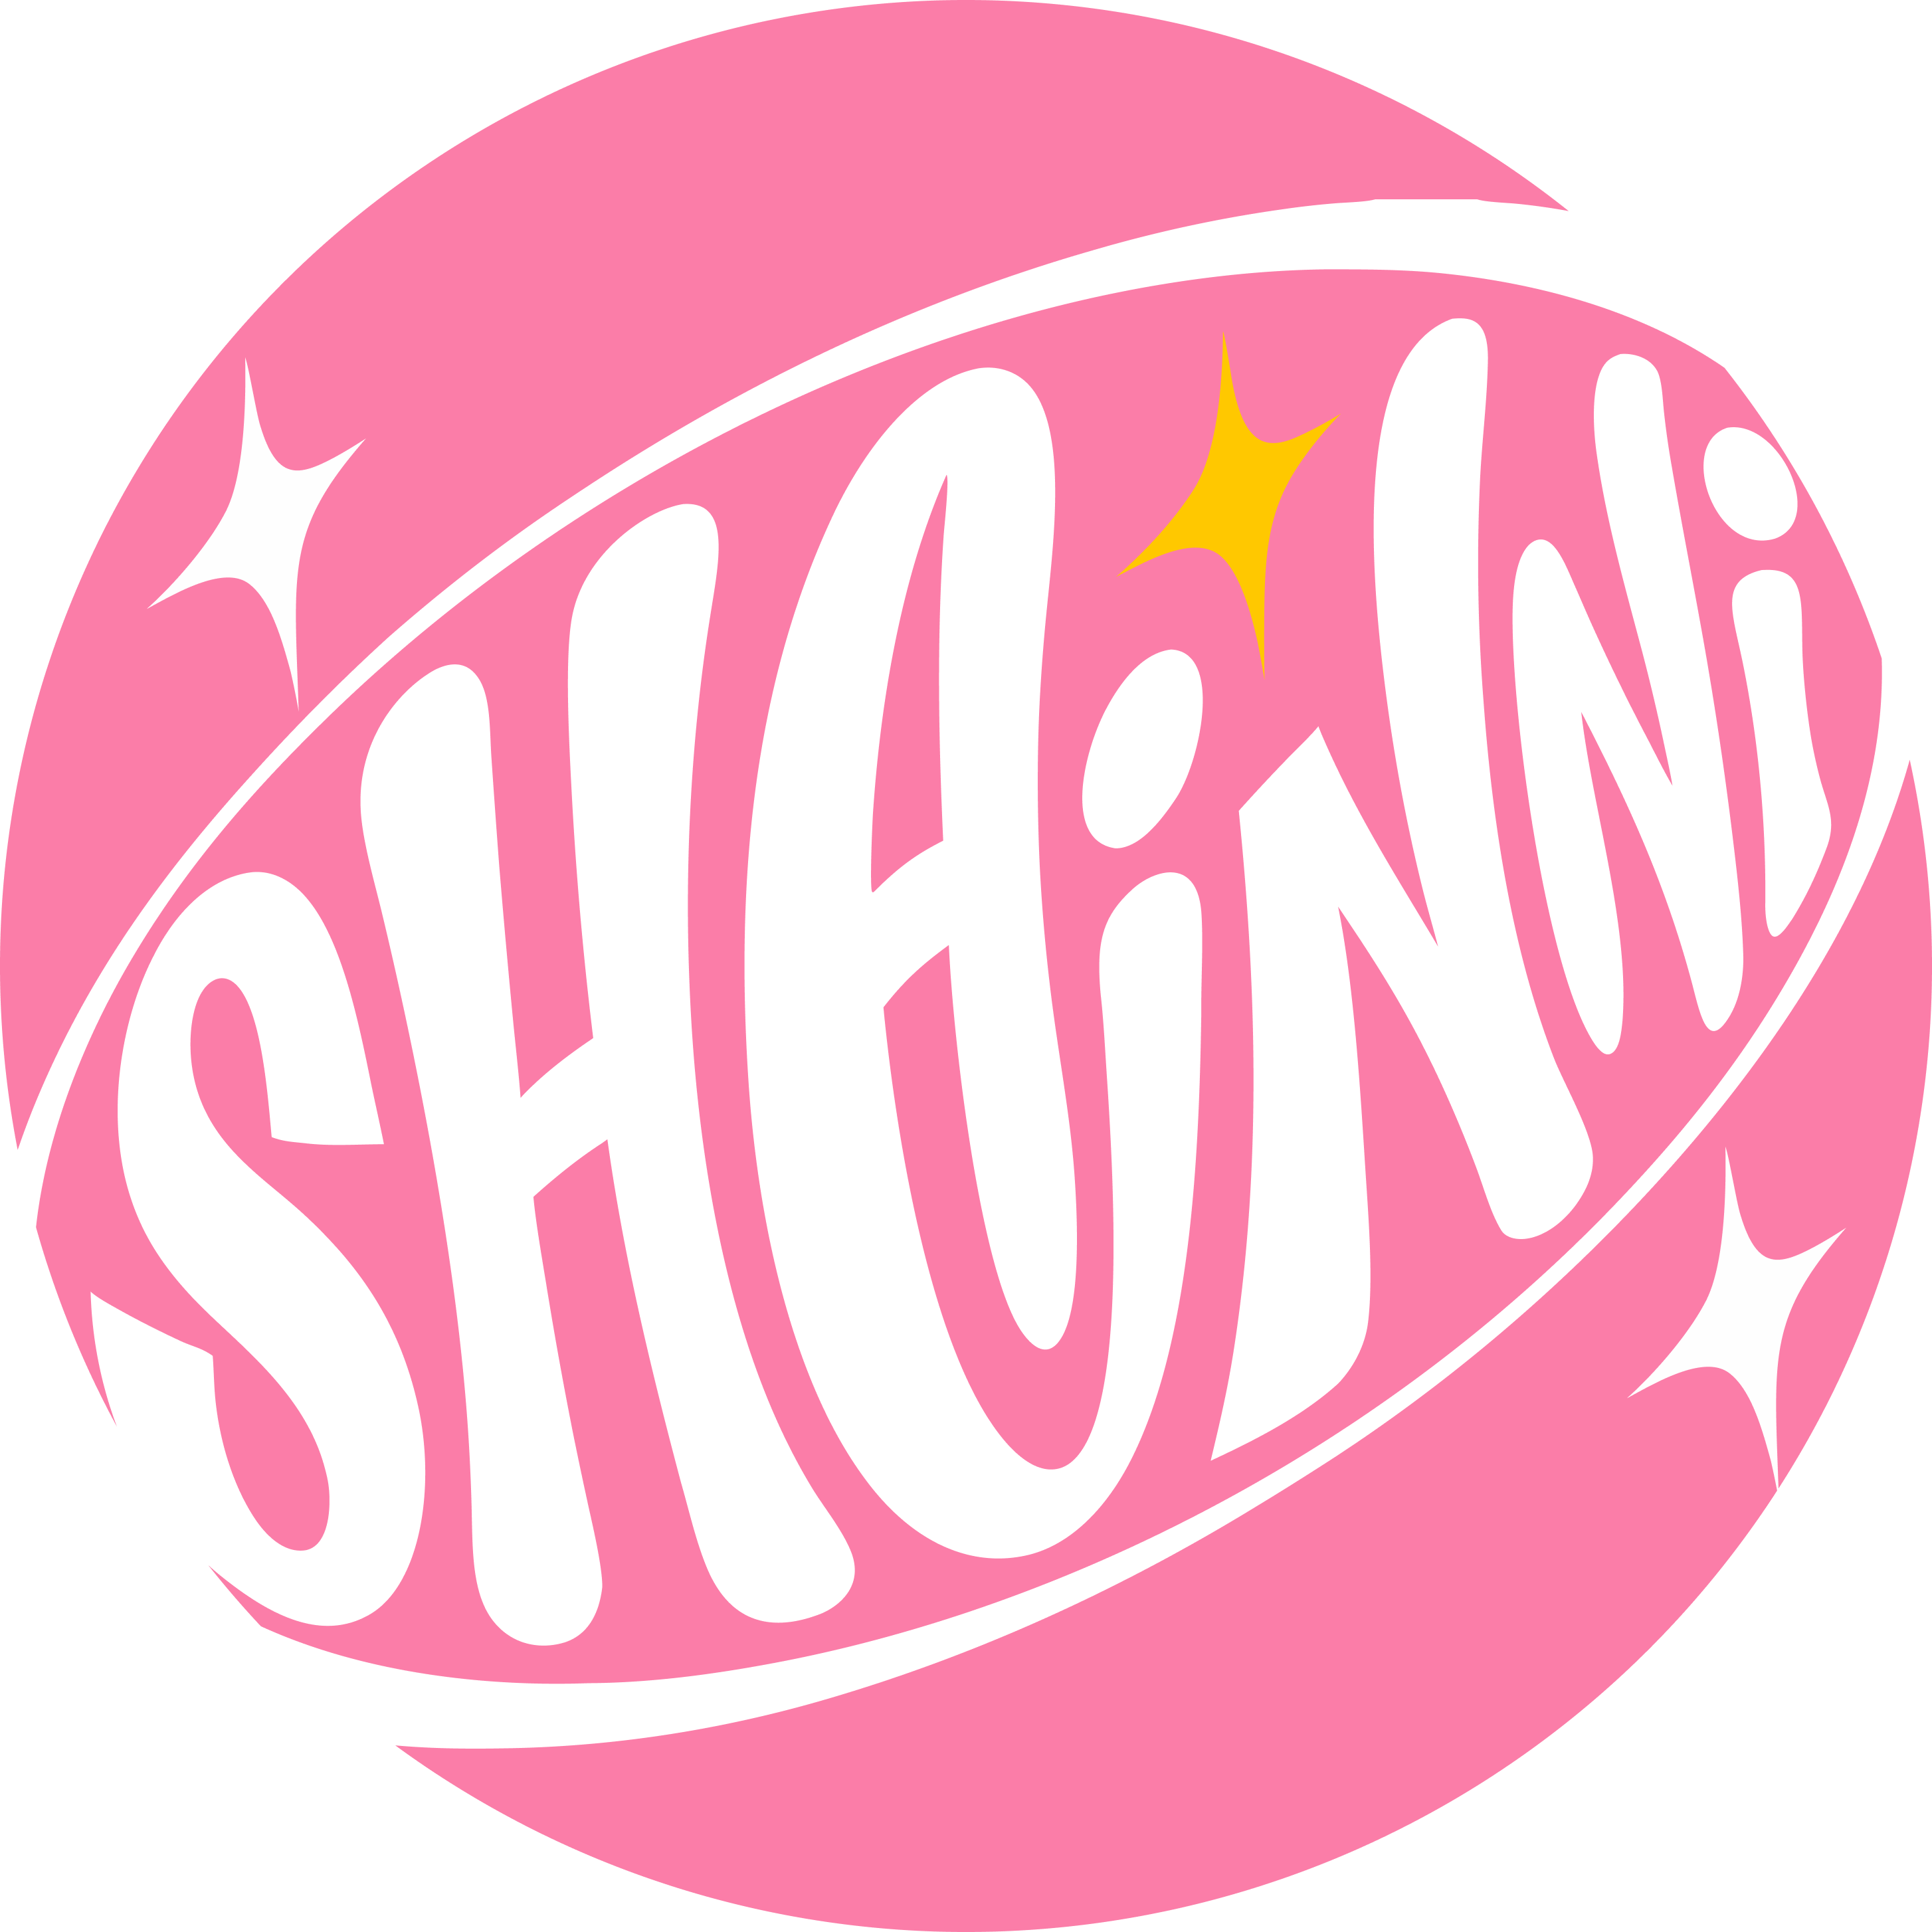
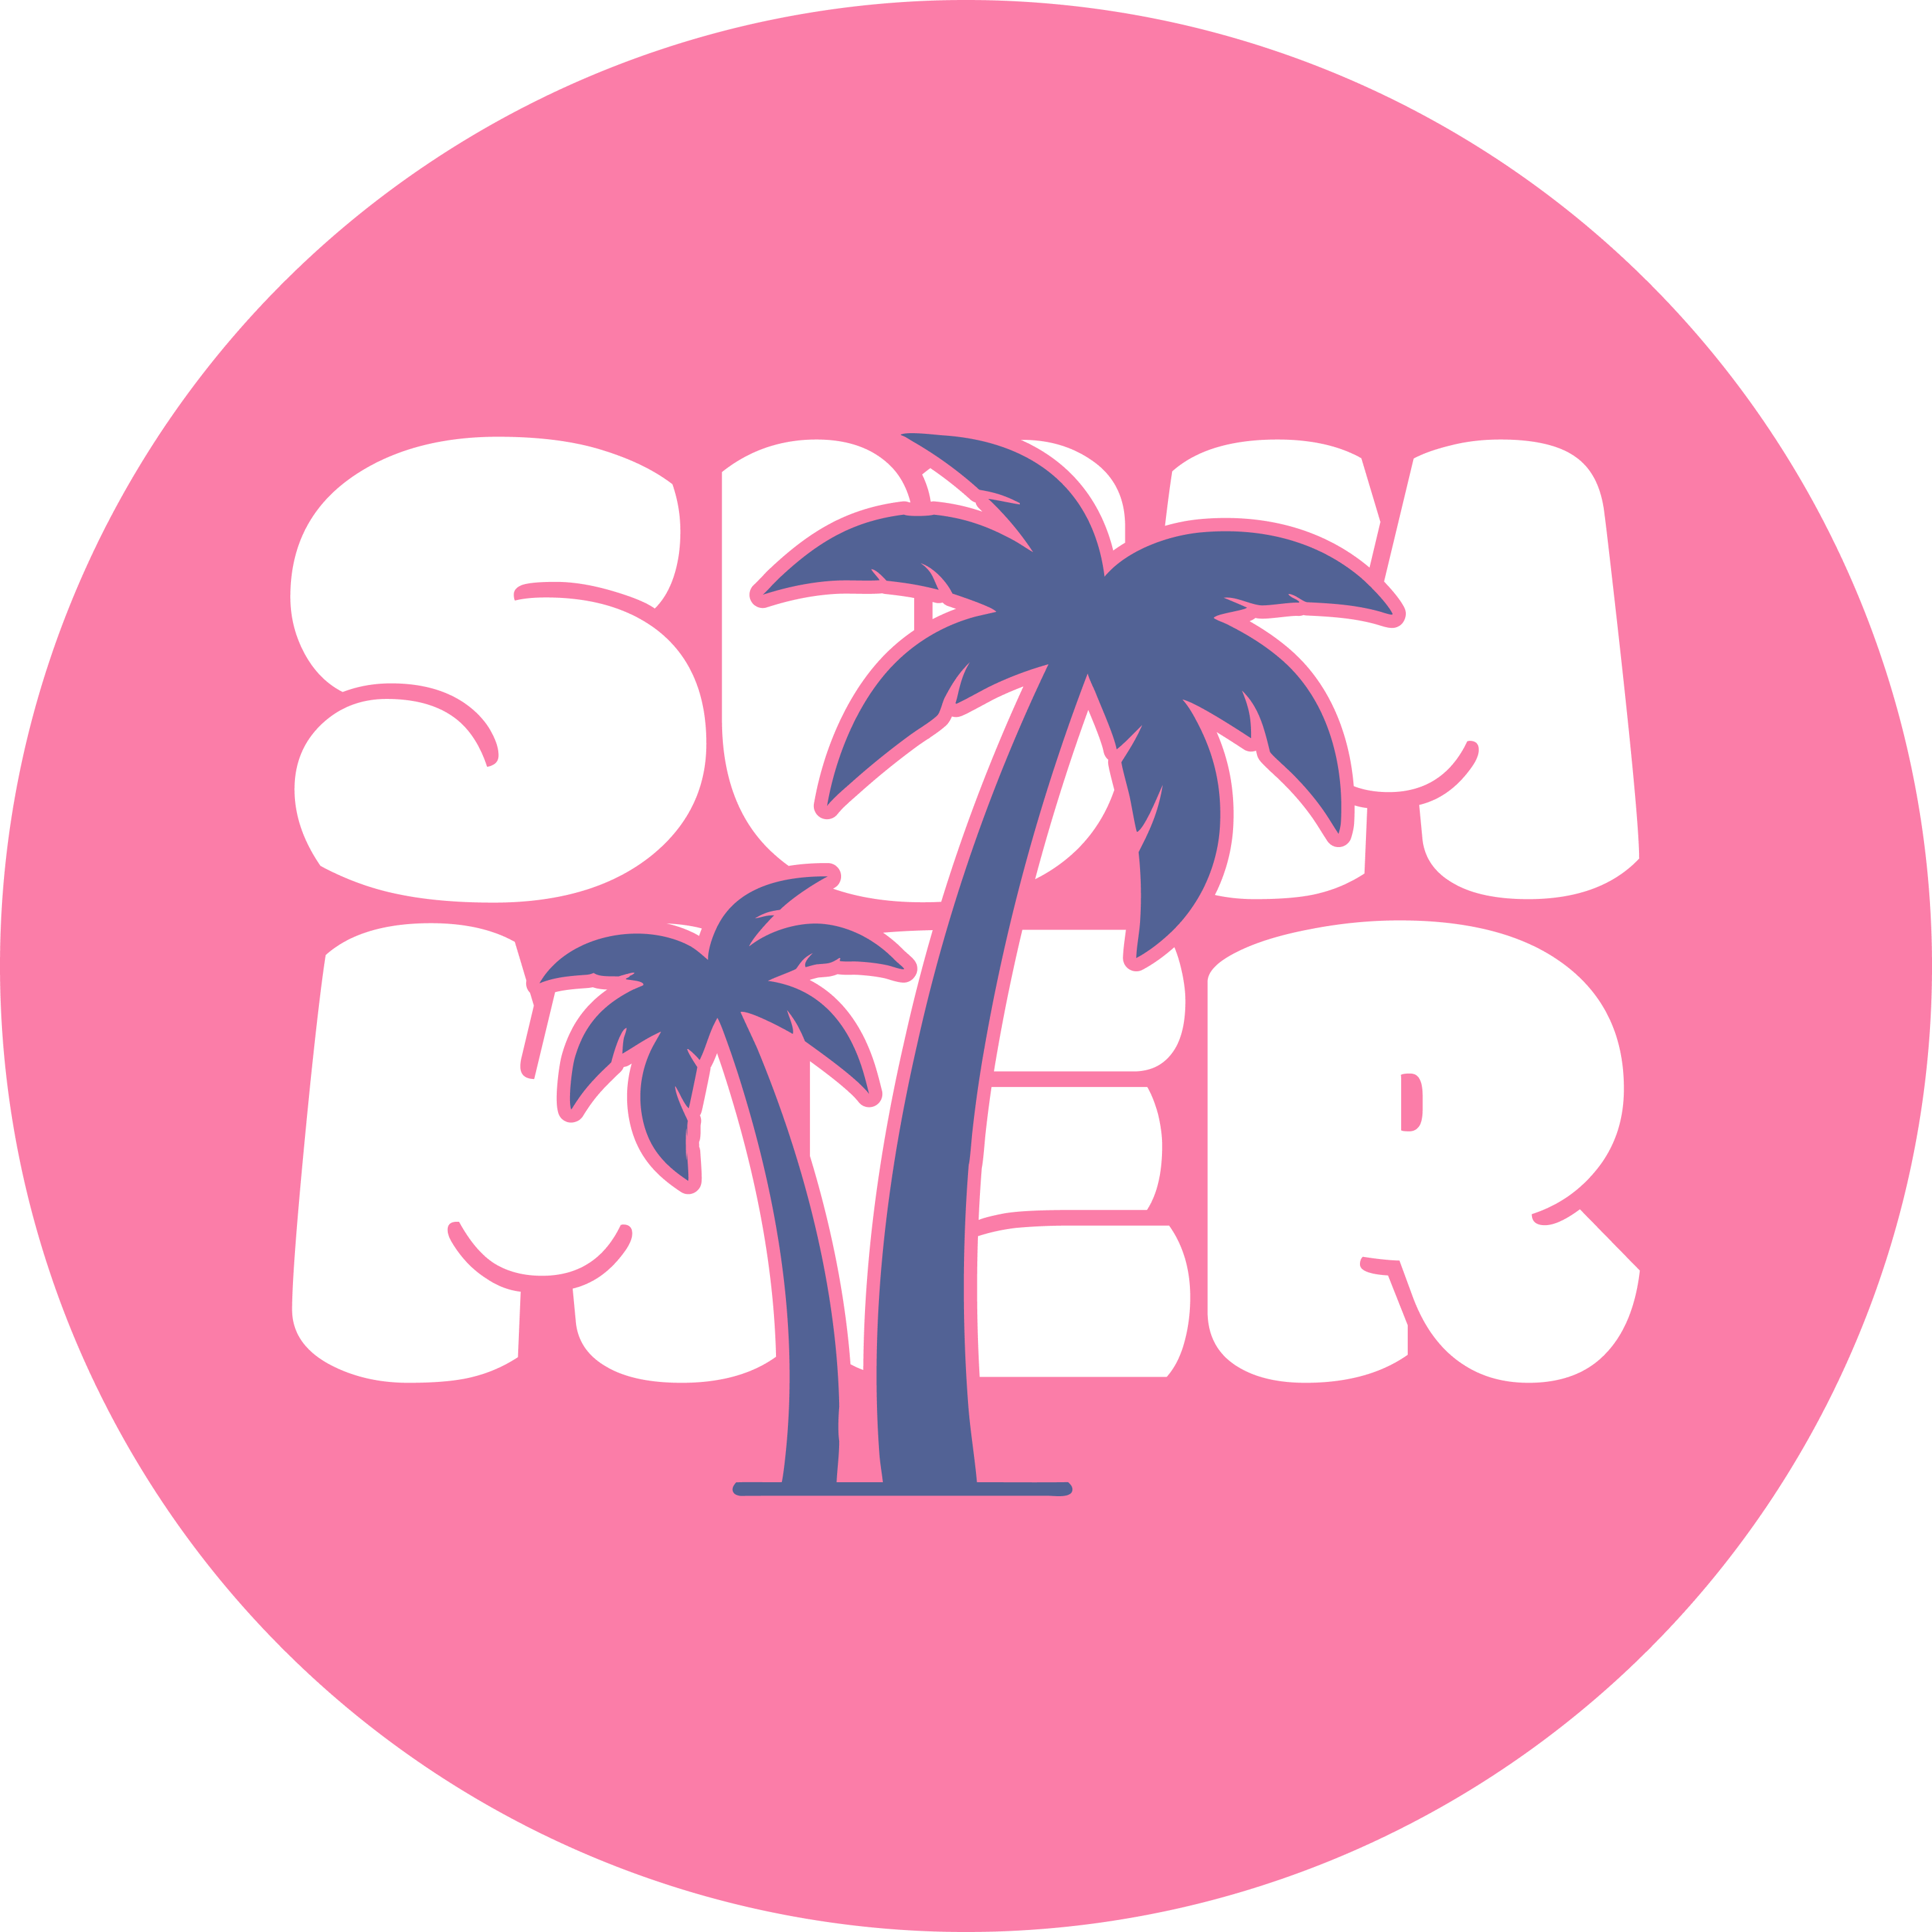
update names

diff --git a/src/data/products.ts b/src/data/products.ts
@@ -118,7 +118,7 @@ export const PRODUCTS: Product[] = [
       {
         id: "shaimug-002",
         label: "ShaiMug 002",
-        image: `${MERCH}/MUG/MUG 2.png`,
+        image: `${MERCH}/MUG/MUG 2S.png`,
       },
     ],
   },
@@ -140,7 +140,7 @@ export const PRODUCTS: Product[] = [
       {
         id: "SHAinni-002",
         label: "SHAinni 002",
-        image: `${MERCH}/TUMBLER/TUMBLER 2.png`,
+        image: `${MERCH}/TUMBLER/TUMBLER 2S.png`,
       },
     ],
   },
@@ -158,18 +158,18 @@ export const PRODUCTS: Product[] = [
       {
         id: "basic-korean",
         label: "Basic Korean",
-        image: `${MERCH}/KEYCHAIN/Basic Korean.png`,
+        image: `${MERCH}/KEYCHAIN/Basic Korean S.png`,
       },
       { id: "basic", label: "Basic", image: `${MERCH}/KEYCHAIN/basic.png` },
-      { id: "db-2", label: "DB 2", image: `${MERCH}/KEYCHAIN/DB 2.png` },
+      { id: "db-2", label: "DB 2", image: `${MERCH}/KEYCHAIN/DBS 2.png` },
       { id: "debe", label: "Debe", image: `${MERCH}/KEYCHAIN/debe.png` },
-      { id: "eps-2", label: "EPS 2", image: `${MERCH}/KEYCHAIN/EPS 2.png` },
+      { id: "eps-2", label: "EPS 2", image: `${MERCH}/KEYCHAIN/EPSS 2.png` },
       { id: "eps", label: "EPS", image: `${MERCH}/KEYCHAIN/eps.png` },
       { id: "jeruk", label: "Jeruk", image: `${MERCH}/KEYCHAIN/jeruk.png` },
       { id: "jeruk2", label: "Jeruk 2", image: `${MERCH}/KEYCHAIN/jeruk2.png` },
-      { id: "kfb-2", label: "KFB 2", image: `${MERCH}/KEYCHAIN/KFB 2.png` },
+      { id: "kfb-2", label: "KFB 2", image: `${MERCH}/KEYCHAIN/KFBS 2.png` },
       { id: "kfb", label: "KFB", image: `${MERCH}/KEYCHAIN/kfb.png` },
-      { id: "kft-2", label: "KFT 2", image: `${MERCH}/KEYCHAIN/KFT 2.png` },
+      { id: "kft-2", label: "KFT 2", image: `${MERCH}/KEYCHAIN/KFTS 2.png` },
       { id: "kft", label: "KFT", image: `${MERCH}/KEYCHAIN/kft.png` },
       { id: "kiwi", label: "Kiwi", image: `${MERCH}/KEYCHAIN/kiwi.png` },
       {
@@ -203,7 +203,7 @@ export const PRODUCTS: Product[] = [
       {
         id: "SHAinni-02",
         label: "SHAinni 02",
-        image: `${MERCH}/KEYCHAIN/SHAINNI 2.png`,
+        image: `${MERCH}/KEYCHAIN/SHAINNI.png`,
       },
       {
         id: "sliced-kiwi",
@@ -234,16 +234,16 @@ export const PRODUCTS: Product[] = [
     designs: [
       { id: "blue1", label: "Blue 1", image: `${MERCH}/PIN/blue1.png` },
       { id: "blue2", label: "Blue 2", image: `${MERCH}/PIN/blue2.png` },
-      { id: "blue3", label: "Blue 3", image: `${MERCH}/PIN/blue3.png` },
+      { id: "blue3", label: "Blue 3", image: `${MERCH}/PIN/blueS.png` },
       { id: "green1", label: "Green 1", image: `${MERCH}/PIN/green1.png` },
       { id: "pink1", label: "Pink 1", image: `${MERCH}/PIN/pink1.png` },
       { id: "pink1-1", label: "Pink 1B", image: `${MERCH}/PIN/pink1-1.png` },
       { id: "pink2", label: "Pink 2", image: `${MERCH}/PIN/pink2.png` },
-      { id: "pink2-1", label: "Pink 2B", image: `${MERCH}/PIN/pink2-1.png` },
+      { id: "pink2-1", label: "Pink 2B", image: `${MERCH}/PIN/pinkS.png` },
       { id: "pink3", label: "Pink 3", image: `${MERCH}/PIN/pink3.png` },
       { id: "pink4", label: "Pink 4", image: `${MERCH}/PIN/pink4.png` },
       { id: "red1", label: "Red 1", image: `${MERCH}/PIN/red1.png` },
-      { id: "red1-1", label: "Red 1B", image: `${MERCH}/PIN/red1-1.png` },
+      { id: "red1-1", label: "Red 1B", image: `${MERCH}/PIN/redS.png` },
       { id: "red2", label: "Red 2", image: `${MERCH}/PIN/red2.png` },
       { id: "red3", label: "Red 3", image: `${MERCH}/PIN/red3.png` },
       { id: "red4", label: "Red 4", image: `${MERCH}/PIN/red4.png` },
@@ -257,7 +257,7 @@ export const PRODUCTS: Product[] = [
       { id: "white4-1", label: "White 4B", image: `${MERCH}/PIN/white4-1.png` },
       { id: "yellow1", label: "Yellow 1", image: `${MERCH}/PIN/yellow1.png` },
       { id: "yellow2", label: "Yellow 2", image: `${MERCH}/PIN/yellow2.png` },
-      { id: "yellow4", label: "Yellow 4", image: `${MERCH}/PIN/yellow4.png` },
+      { id: "yellow4", label: "Yellow 4", image: `${MERCH}/PIN/yellowS.png` },
     ],
   },
 
@@ -275,22 +275,22 @@ export const PRODUCTS: Product[] = [
         label: "Basic Korean",
         image: `${MERCH}/STICKER/BASIC.png`,
       },
-      { id: "db", label: "Digital Business", image: `${MERCH}/STICKER/DB.png` },
-      { id: "eps", label: "EPS TOPIK", image: `${MERCH}/STICKER/EPS.png` },
+      { id: "db", label: "Digital Business", image: `${MERCH}/STICKER/SDB.png` },
+      { id: "eps", label: "EPS TOPIK", image: `${MERCH}/STICKER/SEPS.png` },
       {
         id: "kfb",
         label: "Korean for Business",
-        image: `${MERCH}/STICKER/KFB.png`,
+        image: `${MERCH}/STICKER/SKFB.png`,
       },
       {
         id: "kft",
         label: "Korean for Tourism",
-        image: `${MERCH}/STICKER/KFT.png`,
+        image: `${MERCH}/STICKER/SKFT.png`,
       },
       {
         id: "SHAinni-000",
         label: "SHAinni 000",
-        image: `${MERCH}/STICKER/Shainy 000.png`,
+        image: `${MERCH}/STICKER/SShainy 000.png`,
       },
     ],
   },
@@ -319,7 +319,7 @@ export const PRODUCTS: Product[] = [
       {
         id: "default",
         label: "Bundling A",
-        image: `${MERCH}/BUNDLE 1.png`,
+        image: `${MERCH}/BUNDLE 1S.png`,
       },
     ],
     bundleItems: ["1x T-Shirt (ShaiTee)", "1x Keychain", "1x Sticker"],
@@ -341,7 +341,7 @@ export const PRODUCTS: Product[] = [
       {
         id: "default",
         label: "Bundling B",
-        image: `${MERCH}/BUNDLE 2.png`,
+        image: `${MERCH}/BUNDLE 2S.png`,
       },
     ],
     bundleItems: ["1x Tumbler (SHAinni)", "1x Sticker", "1x Pin"],
@@ -363,7 +363,7 @@ export const PRODUCTS: Product[] = [
       {
         id: "default",
         label: "Bundling C",
-        image: `${MERCH}/BUNDLE 3.png`,
+        image: `${MERCH}/BUNDLE 3S.png`,
       },
     ],
     bundleItems: ["1x Totebag (ShaiBag)", "1x Pin", "1x Keychain"],
@@ -385,10 +385,10 @@ export const PAPER_BAG = PRODUCTS.find((p) => p.slug === "paper-bag")!;
 
 export const CATEGORY_COVER: Record<string, string> = {
   shirt: `${MERCH}/SHIRTS.png`,
-  totebag: `${MERCH}/TOTEBAGS.png`,
-  mug: `${MERCH}/MUGS.png`,
-  tumbler: `${MERCH}/TUMBLERS.png`,
-  keychain: `${MERCH}/KEYCHAINS.png`,
-  pin: `${MERCH}/PINS.png`,
-  sticker: `${MERCH}/STICKERS.png`,
+  totebag: `${MERCH}/TOTEBAGSS.png`,
+  mug: `${MERCH}/MUGSS.png`,
+  tumbler: `${MERCH}/TUMBLERSS.png`,
+  keychain: `${MERCH}/KEYCHAINSS.png`,
+  pin: `${MERCH}/PINSS.png`,
+  sticker: `${MERCH}/STICKERSS.png`,
 };

diff --git a/src/components/Navbar.tsx b/src/components/Navbar.tsx
@@ -22,7 +22,7 @@ export default function Navbar() {
       {/* Logo */}
       <Link href="/" className="flex shrink-0 items-center gap-2">
         <Image
-          src="/images/logo_nav.png"
+          src="/images/navs.png"
           alt="Shainy logo"
           width={160}
           height={60}